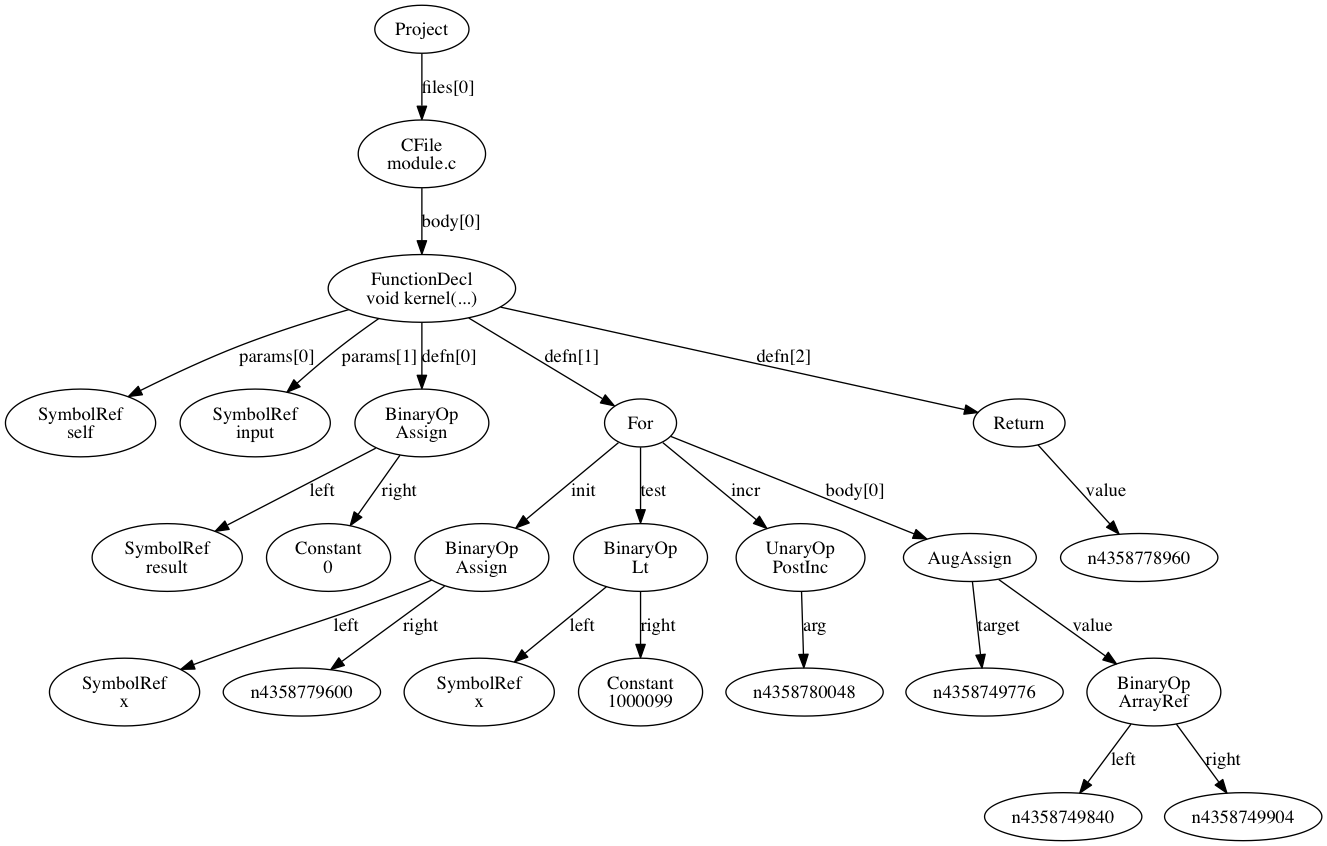
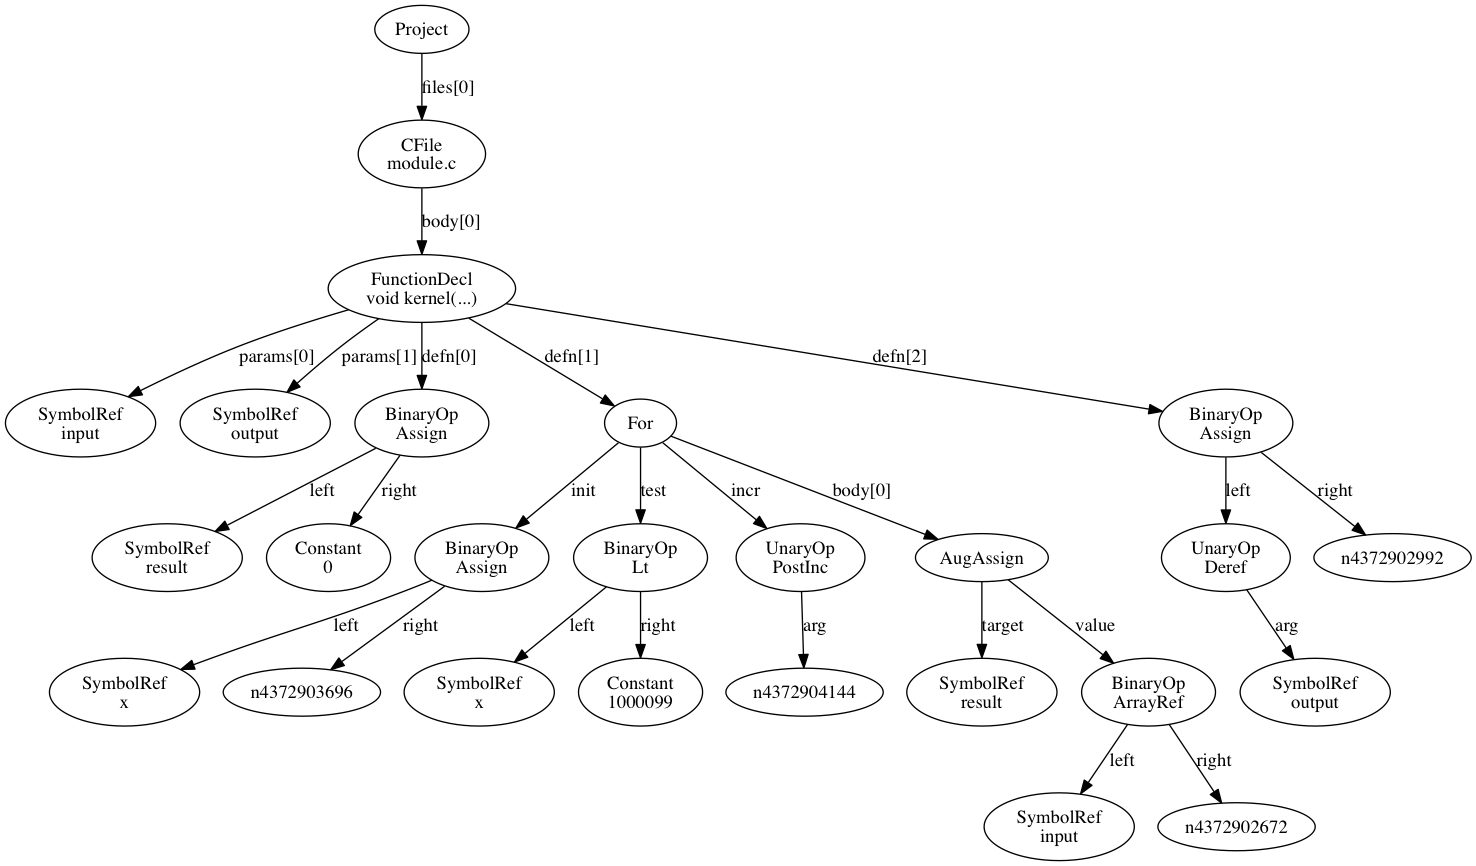
Functional Sum Reducer

diff --git a/slim/main.py b/slim/main.py
@@ -3,13 +3,14 @@ specializer slim
 """
 
 import numpy as np
-from ctree.jit import LazySpecializedFunction
+from ctree.jit import LazySpecializedFunction, ConcreteSpecializedFunction
 from ctree.frontend import get_ast
 from ctree import browser_show_ast
 from ctree.transformations import PyBasicConversions
 from ctree.nodes import CtreeNode
 from ctree.c.nodes import For, SymbolRef, Assign, Lt, PostInc, \
-    Constant
+    Constant, Deref
+import ctree.np
 import ctypes as ct
 
 import ast
@@ -47,6 +48,22 @@ class SlimFrontEnd(PyBasicConversions):
 class SlimCBackend(ast.NodeTransformer):
     def __init__(self, arg_cfg):
         self.arg_cfg = arg_cfg
+        self.retval = None
+
+    def visit_FunctionDecl(self, node):
+        arg_type = np.ctypeslib.ndpointer(self.arg_cfg[0],
+                                          self.arg_cfg[2],
+                                          self.arg_cfg[1])
+
+        param = node.params[1]
+        param.type = arg_type()
+        node.params = [param]
+        retval = SymbolRef("output", arg_type())
+        self.retval = "output"
+        node.params.append(retval)
+        node.defn = list(map(self.visit, node.defn))
+        node.defn[0].left.type = arg_type._dtype_.type()
+        return node
 
     def visit_PointsLoop(self, node):
         target = node.target
@@ -56,6 +73,26 @@ class SlimCBackend(ast.NodeTransformer):
             PostInc(SymbolRef(target)),
             list(map(self.visit, node.body))
         )
+
+    def visit_Return(self, node):
+        return Assign(Deref(SymbolRef(self.retval)), node.value)
+
+
+class ConcreteSlim(ConcreteSpecializedFunction):
+    def finalize(self, entry_name, tree, entry_type):
+        self._c_function = self._compile(entry_name, tree, entry_type)
+        return self
+
+    def __call__(self, input):
+        output = None
+        if input.dtype == np.float32:
+            output = ct.c_float()
+        elif input.dtype == np.int32:
+            output = ct.c_int()
+
+        self._c_function(input, ct.byref(output))
+        return output.value
+
 
 
 class Slim(LazySpecializedFunction):
@@ -70,8 +107,15 @@ class Slim(LazySpecializedFunction):
         arg_cfg, tune_cfg = program_cfg
         tree = SlimFrontEnd().visit(tree)
         tree = SlimCBackend(arg_cfg).visit(tree)
-        browser_show_ast(tree, 'tmp.png')
-        print(tree)
+        # browser_show_ast(tree, 'tmp.png')
+        fn = ConcreteSlim()
+        arg_type = np.ctypeslib.ndpointer(arg_cfg[0],
+                                          arg_cfg[2],
+                                          arg_cfg[1])
+        print(tree.files[0])
+        return fn.finalize('kernel',
+                           tree,
+                           ct.CFUNCTYPE(None, arg_type, ct.POINTER(ct.c_float)))
 
     def points(self, input):
         iter = np.nditer(input, flags=['c_index'])
@@ -79,29 +123,21 @@ class Slim(LazySpecializedFunction):
             yield iter.index
             iter.iternext()
 
-    # def __call__(self, input):
-    # 
-    #     return self.kernel(input)
-
 
 class SumReduce(Slim):
     def kernel(self, input):
-        result = 0
+        result = input[0]
         for x in self.points(input):
-            result += input[x]
+            result = max(x, result)
         return result
-
-    def kernel(self, input, result):
-        # int kernel(int* input):
-        # return result
-
-
 
 
 if __name__ == '__main__':
     special_sum = SumReduce()
-    a = np.arange(1, 1000100, 1)
+    a = (np.random.rand(1024 * 1024) * 100).astype(np.float32)
     b = special_sum(a)
+    print(b)
+    print(np.sum(a))
     assert b == sum(a), "FAILED"
     print("PASSED")
 
